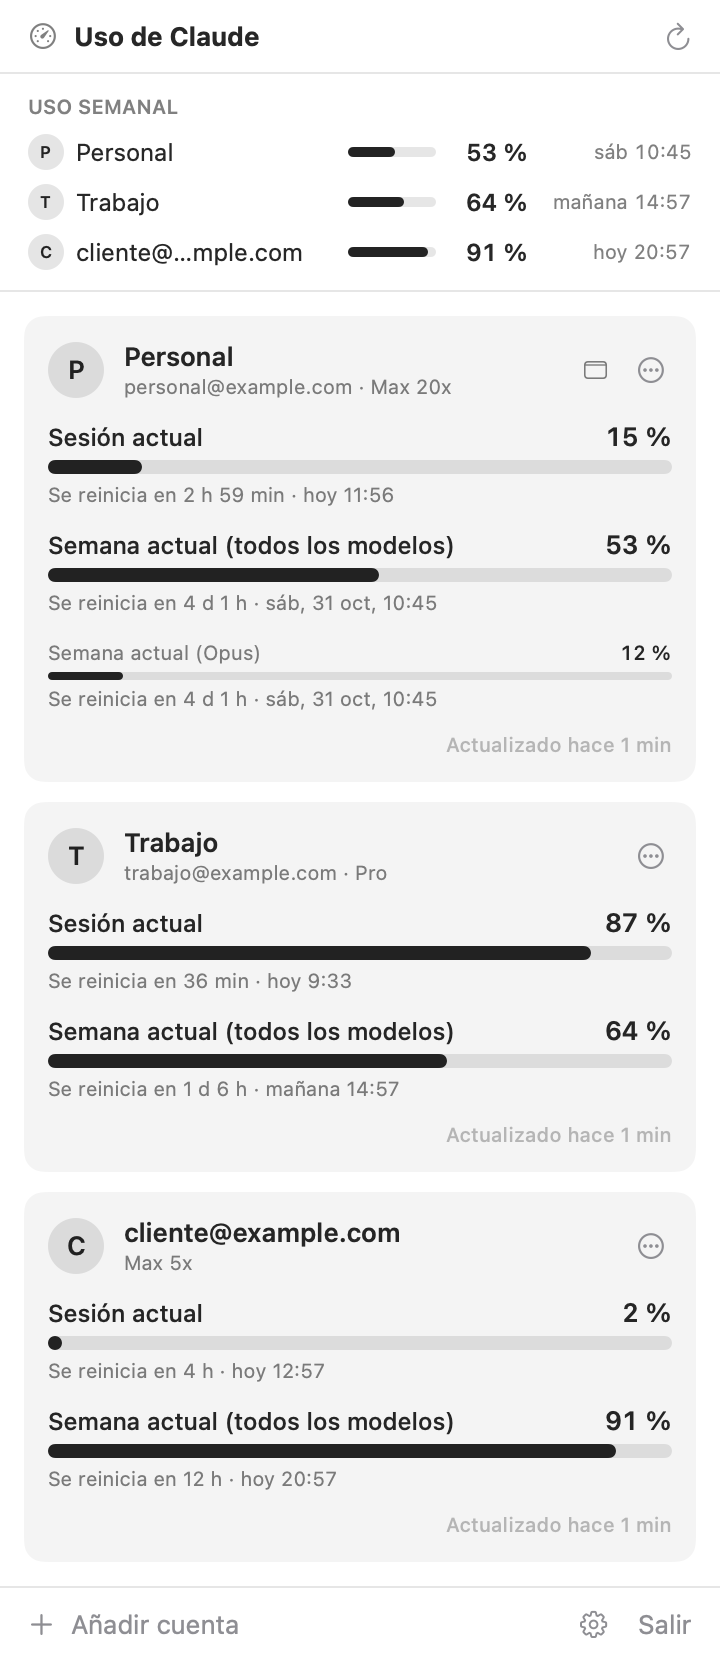
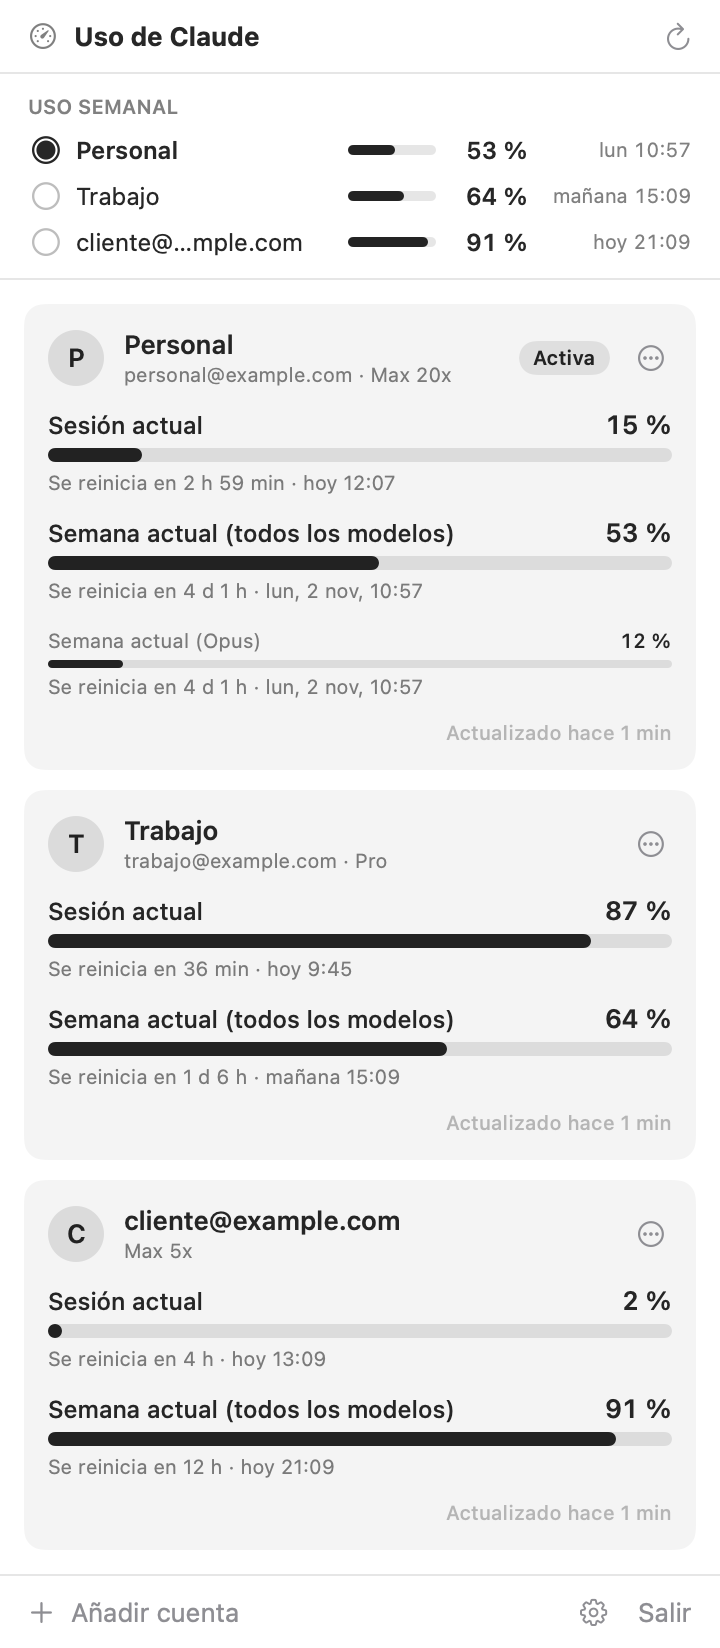
Cuenta activa: se elige con un clic en el resumen semanal
Con varias cuentas, cada fila del resumen «Uso semanal» lleva un selector y al
pulsarla esa cuenta pasa a ser la activa, la que representa el icono de la
barra de menús. Su tarjeta muestra la etiqueta «Activa», el menú ⋯ ofrece
«Marcar como activa» y en Ajustes el selector pasa a llamarse «Cuenta activa».
README y capturas actualizados.

diff --git a/Sources/ClaudeSessionMonitor/Views/WeeklySummary.swift b/Sources/ClaudeSessionMonitor/Views/WeeklySummary.swift
@@ -1,23 +1,25 @@
 import SwiftUI
 
 /// Resumen fijo en lo alto del panel: el uso semanal de cada cuenta, una fila por cuenta.
+/// Con varias cuentas, cada fila sirve también para elegir la cuenta activa (la que se muestra en la barra de menús).
 struct WeeklySummary: View {
     @Environment(AccountStore.self) private var store
-    /// Si se indica, cada fila es pulsable (se usa para saltar a la tarjeta de la cuenta cuando la lista hace scroll).
-    var onSelect: ((UUID) -> Void)?
 
     var body: some View {
+        let selectable = store.accounts.count > 1
+
         VStack(alignment: .leading, spacing: 7) {
             Text("Uso semanal")
                 .font(.caption.weight(.semibold))
                 .foregroundStyle(.secondary)
                 .textCase(.uppercase)
             ForEach(store.accounts) { account in
-                if let onSelect {
-                    Button { onSelect(account.id) } label: { row(account) }
+                if selectable {
+                    Button { store.menuBarAccountID = account.id } label: { row(account, selectable: true) }
                         .buttonStyle(.plain)
+                        .help("Pulsa para mostrar esta cuenta en la barra de menús")
                 } else {
-                    row(account)
+                    row(account, selectable: false)
                 }
             }
         }
@@ -25,14 +27,23 @@ struct WeeklySummary: View {
         .padding(.vertical, 10)
     }
 
-    private func row(_ account: Account) -> some View {
+    private func row(_ account: Account, selectable: Bool) -> some View {
         let weekly = store.usage[account.id]?.weekly
         let percent = weekly?.effectivePercent(at: store.now)
+        let isActive = selectable && store.menuBarAccount?.id == account.id
 
         return HStack(spacing: 6) {
-            Avatar(text: account.title, size: 18)
+            if selectable {
+                Image(systemName: isActive ? "largecircle.fill.circle" : "circle")
+                    .font(.system(size: 14))
+                    .foregroundStyle(isActive ? .primary : .tertiary)
+                    .frame(width: 18)
+                    .accessibilityLabel(isActive ? "Cuenta activa" : "Cuenta no activa")
+            } else {
+                Avatar(text: account.title, size: 18)
+            }
             Text(account.title)
-                .font(.callout)
+                .font(.callout.weight(isActive ? .semibold : .regular))
                 .lineLimit(1)
                 .truncationMode(.middle)
             Spacer(minLength: 6)
@@ -59,6 +70,5 @@ struct WeeklySummary: View {
             }
         }
         .contentShape(Rectangle())
-        .help(Formatting.resetDescription(for: weekly?.resetsAt, now: store.now) ?? "")
     }
 }

diff --git a/Sources/ClaudeSessionMonitor/Views/AccountCard.swift b/Sources/ClaudeSessionMonitor/Views/AccountCard.swift
@@ -10,6 +10,8 @@ struct AccountCard: View {
 
     private var status: AccountStatus { store.status[account.id] ?? .idle }
     private var snapshot: UsageSnapshot? { store.usage[account.id] }
+    /// Solo tiene sentido hablar de cuenta activa cuando hay más de una.
+    private var isActive: Bool { store.accounts.count > 1 && store.menuBarAccount?.id == account.id }
 
     var body: some View {
         VStack(alignment: .leading, spacing: 10) {
@@ -76,11 +78,13 @@ struct AccountCard: View {
                 Button("OK", action: commitRename)
                     .controlSize(.small)
             } else {
-                if store.accounts.count > 1, store.menuBarAccount?.id == account.id {
-                    Image(systemName: "menubar.rectangle")
-                        .font(.caption)
-                        .foregroundStyle(.secondary)
-                        .help("Esta cuenta es la que se muestra en la barra de menús")
+                if isActive {
+                    Text("Activa")
+                        .font(.caption2.weight(.semibold))
+                        .padding(.horizontal, 7)
+                        .padding(.vertical, 2)
+                        .background(.primary.opacity(0.1), in: Capsule())
+                        .help("Esta es la cuenta que se muestra en la barra de menús")
                 }
                 actionsMenu
             }
@@ -127,8 +131,11 @@ struct AccountCard: View {
             Button("Actualizar") {
                 Task { await store.refresh(account.id, manual: true) }
             }
-            Button("Mostrar en la barra de menús") {
-                store.menuBarAccountID = account.id
+            if store.accounts.count > 1 {
+                Button("Marcar como activa") {
+                    store.menuBarAccountID = account.id
+                }
+                .disabled(isActive)
             }
             Button("Renombrar…") {
                 draftName = account.customName ?? ""

diff --git a/Sources/ClaudeSessionMonitor/Views/MenuContentView.swift b/Sources/ClaudeSessionMonitor/Views/MenuContentView.swift
@@ -79,26 +79,19 @@ struct MenuContentView: View {
                 }
                 ForEach(store.accounts) { account in
                     AccountCard(account: account)
-                        .id(account.id)
                 }
             }
             .padding(12)
 
-            ScrollViewReader { proxy in
-                VStack(spacing: 0) {
-                    WeeklySummary { id in
-                        withAnimation { proxy.scrollTo(id, anchor: .top) }
-                    }
-                    Divider()
-                    ScrollView {
-                        list.onGeometryChange(for: CGFloat.self) { $0.size.height } action: { height in
-                            cardsHeight = height
-                            Self.lastCardsHeight = height
-                        }
-                    }
-                    .frame(height: min(cardsHeight, maxCardsHeight))
+            WeeklySummary()
+            Divider()
+            ScrollView {
+                list.onGeometryChange(for: CGFloat.self) { $0.size.height } action: { height in
+                    cardsHeight = height
+                    Self.lastCardsHeight = height
                 }
             }
+            .frame(height: min(cardsHeight, maxCardsHeight))
         }
     }
 

diff --git a/Sources/ClaudeSessionMonitor/Views/SettingsPanel.swift b/Sources/ClaudeSessionMonitor/Views/SettingsPanel.swift
@@ -18,7 +18,7 @@ struct SettingsPanel: View {
             }
 
             if !store.accounts.isEmpty {
-                Picker("Cuenta en la barra", selection: Binding(
+                Picker("Cuenta activa", selection: Binding(
                     get: { store.menuBarAccount?.id },
                     set: { store.menuBarAccountID = $0 }
                 )) {

diff --git a/README.md b/README.md
@@ -16,12 +16,12 @@ Si alternas entre varias cuentas de Claude (personal, trabajo, clientes…), de 
 
 ## Qué hace
 
-- **Resumen semanal arriba del todo**: una fila por cuenta con el porcentaje semanal consumido y cuándo se reinicia («hoy 20:57», «mañana 14:57», «sáb 10:45»).
+- **Resumen semanal arriba del todo**: una fila por cuenta con el porcentaje semanal consumido y cuándo se reinicia («hoy 20:57», «mañana 14:57», «sáb 10:45»). Pulsando una fila eliges la cuenta activa.
 - **Tarjeta por cuenta** con:
   - **Sesión actual**: la ventana de 5 horas, con cuenta atrás hasta el reinicio.
   - **Semana actual (todos los modelos)**: el límite semanal general.
   - **Límites semanales por modelo**, si tu plan los tiene.
-- **Icono en la barra de menús**: el logo de Claude se rellena de abajo arriba según el uso semanal de la cuenta que elijas. Al lado puede mostrar el porcentaje de la sesión, el semanal, los dos o ninguno.
+- **Icono en la barra de menús**: el logo de Claude se rellena de abajo arriba según el uso semanal de la **cuenta activa**, la que estás usando en ese momento. Al lado puede mostrar el porcentaje de la sesión, el semanal, los dos o ninguno.
 - **Avisos** del sistema cuando una cuenta llega al 80 % y al 95 % de la sesión o de la semana.
 - **Actualización automática**: cada pocos minutos (configurable), al despertar el Mac y justo después de cada reinicio de ventana.
 - Interfaz **monocroma**, que se adapta al modo claro y al oscuro.
@@ -63,11 +63,17 @@ Repite el proceso con cada cuenta.
 
 Si el navegador no consigue volver a la app tras autorizar, por ejemplo por un bloqueador o un proxy, pulsa **«¿El navegador no vuelve a la app? Usar un código»**: Claude te mostrará un código para pegar en la app.
 
+### Elegir la cuenta activa
+
+La cuenta activa es la que representa el icono de la barra de menús: normalmente, la que estás usando en ese momento. Cuando hay más de una cuenta, cada fila del resumen **Uso semanal** lleva un selector ◉. Pulsa la fila de una cuenta para convertirla en la activa: su tarjeta mostrará la etiqueta **Activa** y el icono pasará a reflejar su consumo.
+
+También puedes cambiarla con **Marcar como activa**, en el menú **⋯** de cada tarjeta, o desde **Ajustes → Cuenta activa**.
+
 ### El icono de la barra de menús
 
 <p align="center"><img src="docs/icono-barra.png" width="480" alt="El logo de Claude relleno al 25, 50, 75 y 100 % de uso semanal"></p>
 
-El logo se rellena según el **uso semanal** de la cuenta elegida, y la parte sin consumir queda translúcida. Es una imagen de plantilla, así que macOS la pinta en blanco o en negro según el color de la barra. Si la sesión de esa cuenta caduca, aparece un `!`.
+El logo se rellena según el **uso semanal** de la cuenta activa, y la parte sin consumir queda translúcida. Es una imagen de plantilla, así que macOS la pinta en blanco o en negro según el color de la barra. Si la sesión de esa cuenta caduca, aparece un `!`.
 
 ### Ajustes
 
@@ -76,12 +82,12 @@ Se abren con el engranaje, abajo a la derecha del panel.
 | Ajuste | Qué hace |
 | --- | --- |
 | Actualizar cada | Frecuencia de consulta: 1, 2, 5 (por defecto), 10, 15 o 30 minutos |
-| Cuenta en la barra | Qué cuenta representa el icono |
+| Cuenta activa | Qué cuenta representa el icono (también se elige desde el resumen) |
 | Texto en la barra | Sesión actual, semanal, ambos o solo icono |
 | Avisar al llegar al 80 % y 95 % | Notificaciones del sistema al cruzar esos umbrales |
 | Abrir al iniciar sesión en el Mac | Arranque automático |
 
-Desde el menú **⋯** de cada tarjeta puedes actualizar esa cuenta, mostrarla en la barra, renombrarla (por ejemplo «Trabajo»), volver a iniciar sesión, cambiar su orden o quitarla.
+Desde el menú **⋯** de cada tarjeta puedes actualizar esa cuenta, marcarla como activa, renombrarla (por ejemplo «Trabajo»), volver a iniciar sesión, cambiar su orden o quitarla.
 
 ## Cómo funciona
 
